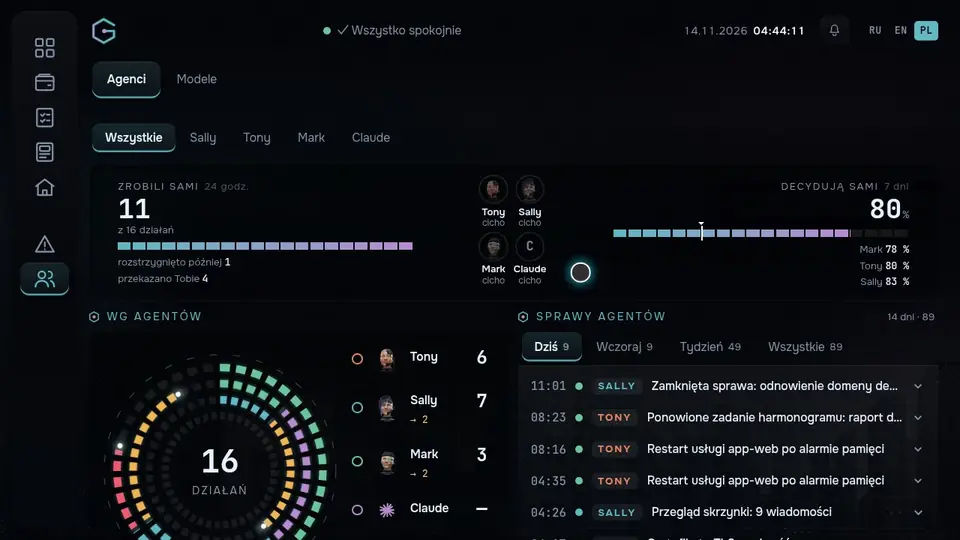
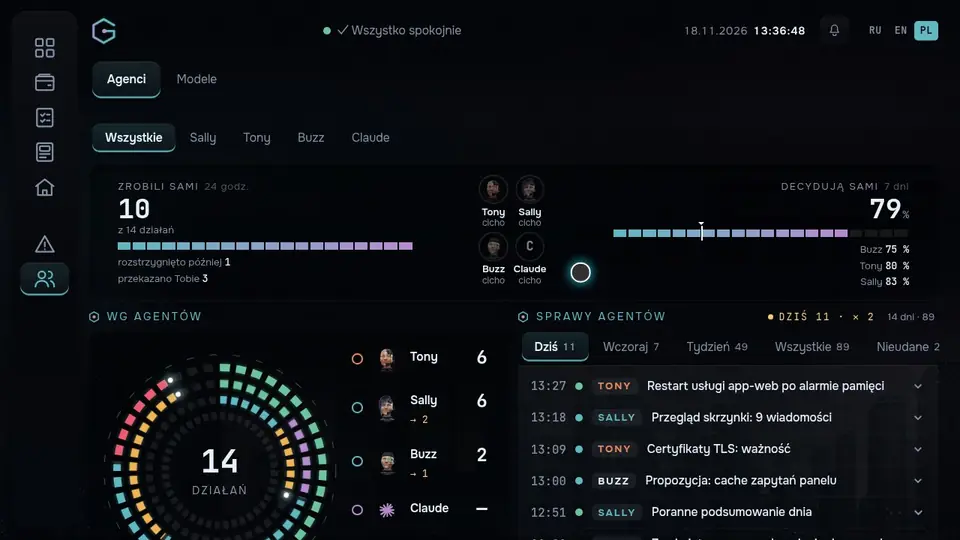
Panel na danych przykładowych z Buzzem zamiast Marka: kadry panel-agenci (+tel, tony, sally), panel-decyzje ×3, okładka agenci-okladka, filmy agenci.mp4 i panel.mp4 (do wydania media przy publikacji); polskie napisy roli Buzza i «Nieudane», podpisy PL/EN/RU
Kind: feat

diff --git a/tools/panel-demo/rolik_common.py b/tools/panel-demo/rolik_common.py
@@ -3,17 +3,17 @@ prywatnych elementów, narysowany kursor, kontrola cyrylicy w kadrze."""
 import json
 
 # Zamiany napisów (regex → tekst), kolejno; najpierw dłuższe. Role agentów jak na stronie: Sally korespondencja i terminy,
-# Tony dyżur infrastruktury, Mark modernizacja i analiza.
+# Tony dyżur infrastruktury, Buzz modernizacja i pomysły.
 PL = [
     ["^снято ", "zdjęte "], ["пойманные щитом", "złapane przez tarczę"], ["^Банов всего$", "Blokad łącznie"], ["^Файрвол Proxmox$", "Zapora Proxmox"],
     ["Техник дома: сервер, машины, сеть, копии, код, задания Клоду\\. ИИ на домашнем сервере, это не скрывает\\.",
      "Dyżurny infrastruktury: serwer, maszyny wirtualne, sieć, kopie zapasowe, alarmy. AI na własnym serwerze, nie ukrywa tego."],
     ["Собеседница и диктор дома:[^]*", "Korespondencja i terminy: poczta, sprawy, przypomnienia. AI na własnym serwerze, nie ukrywa tego."],
-    ["Модернизатор дома:[^]*", "Modernizacja i analiza: sprawdza, co się zestarzało i które nowe wersje są warte uwagi, potem proponuje wdrożenie. AI na własnym serwerze, nie ukrywa tego."],
+    ["Модернизатор (дома|сервера Салли):[^]*", "Modernizacja i pomysły: sprawdza, co się zestarzało, i przynosi jedną lub dwie zmiany z ceną i zyskiem; pilnuje kopii zapasowych. AI na własnym serwerze, nie ukrywa tego."],
     ["модернизатор, админ, аналитик, новостник, хранитель копий", "modernizacja, administracja, analiza, kopie"],
     [r"из (\d+) действий", "z $1 działań"], ["[hH][rR], бухгалтер и диктор", "korespondencja i terminy"],
     ["kadry · księgowość · lektor", "korespondencja i terminy"], ["кадры · бухгалтерия · диктор", "korespondencja i terminy"],
-    ["kadry, księgowość i lektor", "korespondencja i terminy"], ["Вживую", "Na żywo"], ["Мастерская", "Warsztat"],
+    ["kadry, księgowość i lektor", "korespondencja i terminy"], ["^Не смогли", "Nieudane"], ["Вживую", "Na żywo"], ["Мастерская", "Warsztat"],
     ["меньше: ", "najmniej: "], ["ответов", "odpowiedzi"], ["сломано", "zepsute"], ["отказов", "odmów"], ["провал экзамена", "egzamin oblany"],
     ["категория", "kategoria"], ["аналитика", "analiza"], ["новости", "wiadomości"], ["Открыть", "Otwórz"], ["дольше всех", "najdłużej"],
     [" мин", " min"], ["(\\d) ч(?![а-я])", "$1 godz."], ["само: ", "automatycznie: "], ["Claude готовит", "Claude przygotowuje"], ["вопросы", "pytania"],

diff --git a/tools/panel-demo/fake.py b/tools/panel-demo/fake.py
@@ -21,18 +21,18 @@ T = {
               ("close", "Zamknięta sprawa: odnowienie domeny demo", "sally", "Opłacone, ważne do 2027"),
               ("send", "Poranne podsumowanie dnia", "sally", "6 punktów, 1 do decyzji"),
               ("handoff", "Wybór oferty hostingu: dwa warianty", "sally", "Karta decyzji w panelu")],
-    "mark": [("check", "Przegląd zależności: 4 repozytoria", "mark", "2 aktualizacje bezpieczeństwa"),
-             ("decide", "Propozycja: cache zapytań panelu", "mark", "Rada agentów: tak, 3 z 3"),
-             ("fix", "Aktualizacja biblioteki HTTP w repozytorium demo", "mark", "Testy zielone, 41 z 41"),
+    "buzz": [("check", "Przegląd zależności: 4 repozytoria", "buzz", "2 aktualizacje bezpieczeństwa"),
+             ("decide", "Propozycja: cache zapytań panelu", "buzz", "Rada agentów: tak, 3 z 3"),
+             ("fix", "Aktualizacja biblioteki HTTP w repozytorium demo", "buzz", "Testy zielone, 41 z 41"),
              ("check", "Nocny przegląd kodu", "review", "Znaleziska 2, naprawione 2"),
-             ("fix", "Szybsza strona statusu: 4,7 s do 0,3 s", "mark", "Pomiar przed i po w dzienniku"),
-             ("handoff", "Migracja bazy na nową wersję: zgoda właściciela", "mark", "Karta z planem i ryzykiem")],
+             ("fix", "Szybsza strona statusu: 4,7 s do 0,3 s", "buzz", "Pomiar przed i po w dzienniku"),
+             ("handoff", "Migracja bazy na nową wersję: zgoda właściciela", "buzz", "Karta z planem i ryzykiem")],
 }
 ACTIONS = []
 _id = 1
 for d in range(14):
     for agent, pool in T.items():
-        for _ in range(R.choice([1, 2, 2, 3, 3, 4]) if agent != "mark" else R.choice([0, 1, 1, 2])):
+        for _ in range(R.choice([1, 2, 2, 3, 3, 4]) if agent != "buzz" else R.choice([0, 1, 1, 2])):
             kind, title, src, res = R.choice(pool)
             at = (NOW - timedelta(days=d)).replace(hour=R.choice([2, 3, 4, 6, 7, 9, 11, 14, 16, 19, 22]), minute=R.randrange(60))
             if at > NOW:
@@ -41,7 +41,7 @@ for d in range(14):
             ACTIONS.append({"id": _id, "at": at, "agent": agent, "kind": kind, "title": title, "why": "", "result": res,
                             "ok": ok, "source": src, "ref": "", "steps": []})
             _id += 1
-for i, (ag, k) in enumerate([("tony", 0), ("sally", 0), ("tony", 3), ("mark", 1), ("sally", 5)]):
+for i, (ag, k) in enumerate([("tony", 0), ("sally", 0), ("tony", 3), ("buzz", 1), ("sally", 5)]):
     kind, title, src, res = T[ag][k]
     ACTIONS.append({"id": _id + i, "at": NOW - timedelta(minutes=7 + 9 * i), "agent": ag, "kind": kind, "title": title,
                     "why": "", "result": res, "ok": True, "source": src, "ref": "", "steps": []})

diff --git a/tools/panel-demo/fake_dec.py b/tools/panel-demo/fake_dec.py
@@ -11,7 +11,7 @@ def _o(*opts):
 
 
 OPEN = [
-    ("mark", 6, "Migracja bazy demo na PostgreSQL 18?",
+    ("buzz", 6, "Migracja bazy demo na PostgreSQL 18?",
      "Plan w 3 krokach: kopia, migracja w oknie 15 min w niedzielę, test odtworzenia. Ryzyko niskie, testy 41 z 41.",
      _o(("Tak, w niedzielę", "Kopia przed i test odtworzenia po"), ("Za tydzień", "Najpierw próba na kopii"), ("Nie teraz", "Wrócić za miesiąc"))),
     ("handoff_tony", 23, "Dysk zewnętrzny kopii: SMART ostrzega",
@@ -23,7 +23,7 @@ OPEN = [
 ]
 DONE = [  # (źródło, min temu zadane, min do odpowiedzi, pytanie, wybrany, wynik, auto)
     ("claude", 95, 11, "Strona: zrzuty modeli na danych przykładowych?", "Zrzuty modeli", "Zrobione, 2 kadry, testy ok", False),
-    ("mark", 180, 4, "Nocny przegląd: 2 znaleziska do naprawy", "Napraw sam", "Naprawione 2 z 2, testy zielone", False),
+    ("buzz", 180, 4, "Nocny przegląd: 2 znaleziska do naprawy", "Napraw sam", "Naprawione 2 z 2, testy zielone", False),
     ("morning", 420, 0, "Raport dzienny o 05:12 czy o 07:00?", "O 07:00", "Harmonogram zmieniony", True),
     ("handoff_sally", 610, 26, "Spotkanie w czwartek: przenieść na 10:00?", "Tak, 10:00", "Kalendarz zaktualizowany", False),
 ]

diff --git a/tools/panel-demo/fake_llm.py b/tools/panel-demo/fake_llm.py
@@ -15,7 +15,7 @@ APPS = [
     ("gw/agenci:sally-rozmowa", "sally", 38, [("claude:sonnet", 4), ("groq:openai/gpt-oss-120b", 3), ("groq:qwen/qwen3.8-27b", 1)], 2400, 320),
     ("gw/agenci:tony-alarmy", "write_fast", 22, [("cerebras:gpt-oss-120b", 4), ("groq:openai/gpt-oss-120b", 3), ("google:gemini-3.5-flash-lite", 1)], 1600, 260),
     ("gw/agenci:podsumowanie-dnia", "digest", 6, [("claude:sonnet", 3), ("openai:gpt-5-mini", 2), ("google:gemini-3.8-flash", 1)], 5200, 700),
-    ("gw/agenci:mark-przeglad", "recheck", 9, [("claude:sonnet", 2), ("groq:openai/gpt-oss-120b", 2), ("openai:gpt-5-mini", 1)], 3800, 420),
+    ("gw/agenci:buzz-przeglad", "recheck", 9, [("claude:sonnet", 2), ("groq:openai/gpt-oss-120b", 2), ("openai:gpt-5-mini", 1)], 3800, 420),
     ("gw/agenci:szkola-egzamin", "judge", 18, [("openai:gpt-5-mini", 3), ("groq:openai/gpt-oss-120b", 3), ("cerebras:gpt-oss-120b", 2)], 1400, 150),
     ("gw/agenci:ocena-odpowiedzi", "score", 30, [("claude:haiku", 3), ("groq:openai/gpt-oss-20b", 3), ("google:gemini-3.1-flash-lite", 2), ("ollama:qwen3:4b-instruct", 1)], 700, 40),
     ("glos-asystenta", "voice", 14, [("cerebras:gpt-oss-120b", 4), ("groq:openai/gpt-oss-120b", 3), ("groq:qwen/qwen3.8-27b", 1)], 1100, 90),

diff --git a/tools/panel-demo/rolik.py b/tools/panel-demo/rolik.py
@@ -16,7 +16,7 @@ with sync_playwright() as p:
     pg.on("console", lambda m: m.type == "error" and errs.append(m.text[:120]))
     pg.on("response", lambda r: r.status >= 400 and errs.append(f"{r.status} {r.url}"))
     # прогрев: кэш картинок/шрифтов, чтобы в записи не было пустых кадров
-    for u in ("/agenty/tony", "/agenty/sally", "/agenty/mark", "/agenty"):
+    for u in ("/agenty/tony", "/agenty/sally", "/agenty/buzz", "/agenty"):
         pg.goto(base + u, wait_until="networkidle")
     pg.wait_for_timeout(500)
     cdp = ctx.new_cdp_session(pg)
@@ -47,7 +47,7 @@ with sync_playwright() as p:
     scroll(330, 1100); pg.wait_for_timeout(1700); check("tony-330")
     scroll(0, 700)
     go(".card a[href='/agenty/sally']", 2600); check("sally-top")
-    go(".card a[href='/agenty/mark']", 2600); check("mark-top")
+    go(".card a[href='/agenty/buzz']", 2600); check("buzz-top")
     cdp.send("Page.stopScreencast"); pg.wait_for_timeout(200)
     b.close()
 json.dump({"frames": frames, "errs": errs, "cyr": cyr}, open(out + "/meta.json", "w"), ensure_ascii=False, indent=0)

diff --git a/tools/odswiez/PLAN.md b/tools/odswiez/PLAN.md
@@ -3,11 +3,6 @@
 Ostatnia noc: 2026-11-18 (dziennik: 3 wpisy; przenagrana głowa Marka; panel bez zmian; SEO: 2 tytuły; stos platformy danych)
 
 ## Nieaktualne
-- Film panel.mp4 (12.11): zakładka „Modele” ma już podzakładki rdzenia (zużycie, przebiegi, wynik, limity i trasy),
-  a twarze agentów są nowe. Przenagrać `rolik_panel.py` (panel uruchomić od nowa przed nagraniem).
-- Panel od 17.11: na serwerze Sally agent domowy to Buzz, Mark zostaje w innej roli. Kadry panel-agenci,
-  panel-decyzje, agenci.mp4 pokazują jeszcze Marka: przenagrać. Głowy (clip.py `buzz`, wyjscie.py), karta w sekcji
-  „Agenci” i teksty Mark → Buzz zrobione w warsztacie 18.11; Sally i Tony zostały ze starych plików.
 - Konsola ISP (public/img/demo): zrzuty z 05.11 w niebieskim motywie „Kolor”. Przenagrać, gdy platforma ISP dostanie
   ciemny motyw zbliżony do panelu; inaczej zostają.
 - Pulpit (pulpit-gitcloud): film pulpit.mp4 nagrany ręcznie, przepisu w repo nie ma. Przenagrać dopiero z przepisem
@@ -25,7 +20,8 @@ Ostatnia noc: 2026-11-18 (dziennik: 3 wpisy; przenagrana głowa Marka; panel bez
 ## Nie udało się / ograniczenia
 - Pilot: okno rozmowy (Sally, Tony) i strona „Dźwięk” są od 18.11 w tools/pilot/scenariusz-glos.txt (warsztat strony).
   Wiersz trybów ze sprawą w toku jeszcze nie występuje w scenariuszu.
-- Panel 18.11: Buzz zamiast Marka i kafel zadań kontenera zamiast Cronicle; bez przenagrania (patrz „Nieaktualne”).
+- Panel 18.11 (warsztat): przenagrane z Buzzem kadry panel-agenci, -tel, -tony, -sally, panel-decyzje ×3, okładka
+  agenci-okladka oraz filmy agenci.mp4 i panel.mp4 (dane przykładowe tools/panel-demo: mark → buzz).
 - Głowy 18.11: Tony i Sally po ponownym renderze różnią się tylko odcieniem skóry, zostały stare pliki; trójka
   glowy.mp4 i Mark nowe.
 

diff --git a/tools/panel-demo/README.md b/tools/panel-demo/README.md
@@ -27,7 +27,7 @@ Okładka karty „Agenci AI” (16:9): wycinek 1280×720 ze zrzutu `/agenty` w 2
 WebP (jakość 82) do `public/img/projekty/agenci-okladka.webp`.
 
 Film „Agenci AI” (`/img/projekty/agenci.mp4`, 1280×720, ok. 25 s): `python rolik.py <katalog>` nagrywa przejście
-po panelu (przegląd /agenty, szczegóły sprawy, karty Tony, Sally, Mark) przez CDP screencast (JPEG 92) z narysowanym
+po panelu (przegląd /agenty, szczegóły sprawy, karty Tony, Sally, Buzz) przez CDP screencast (JPEG 92) z narysowanym
 kursorem; tłumaczy opisy postaci na polski, ukrywa listę harmonogramu i sprawdza cyrylicę w kadrze w każdym punkcie.
 Na końcu `koduj()`: klatki → ffconcat z czasami → H.264 (`-preset veryslow -crf 28 -tune stillimage`) prosto do
 `public/img/projekty/agenci.mp4`, plakat `agenci-wideo.jpg` = klatka z 2. sekundy.
